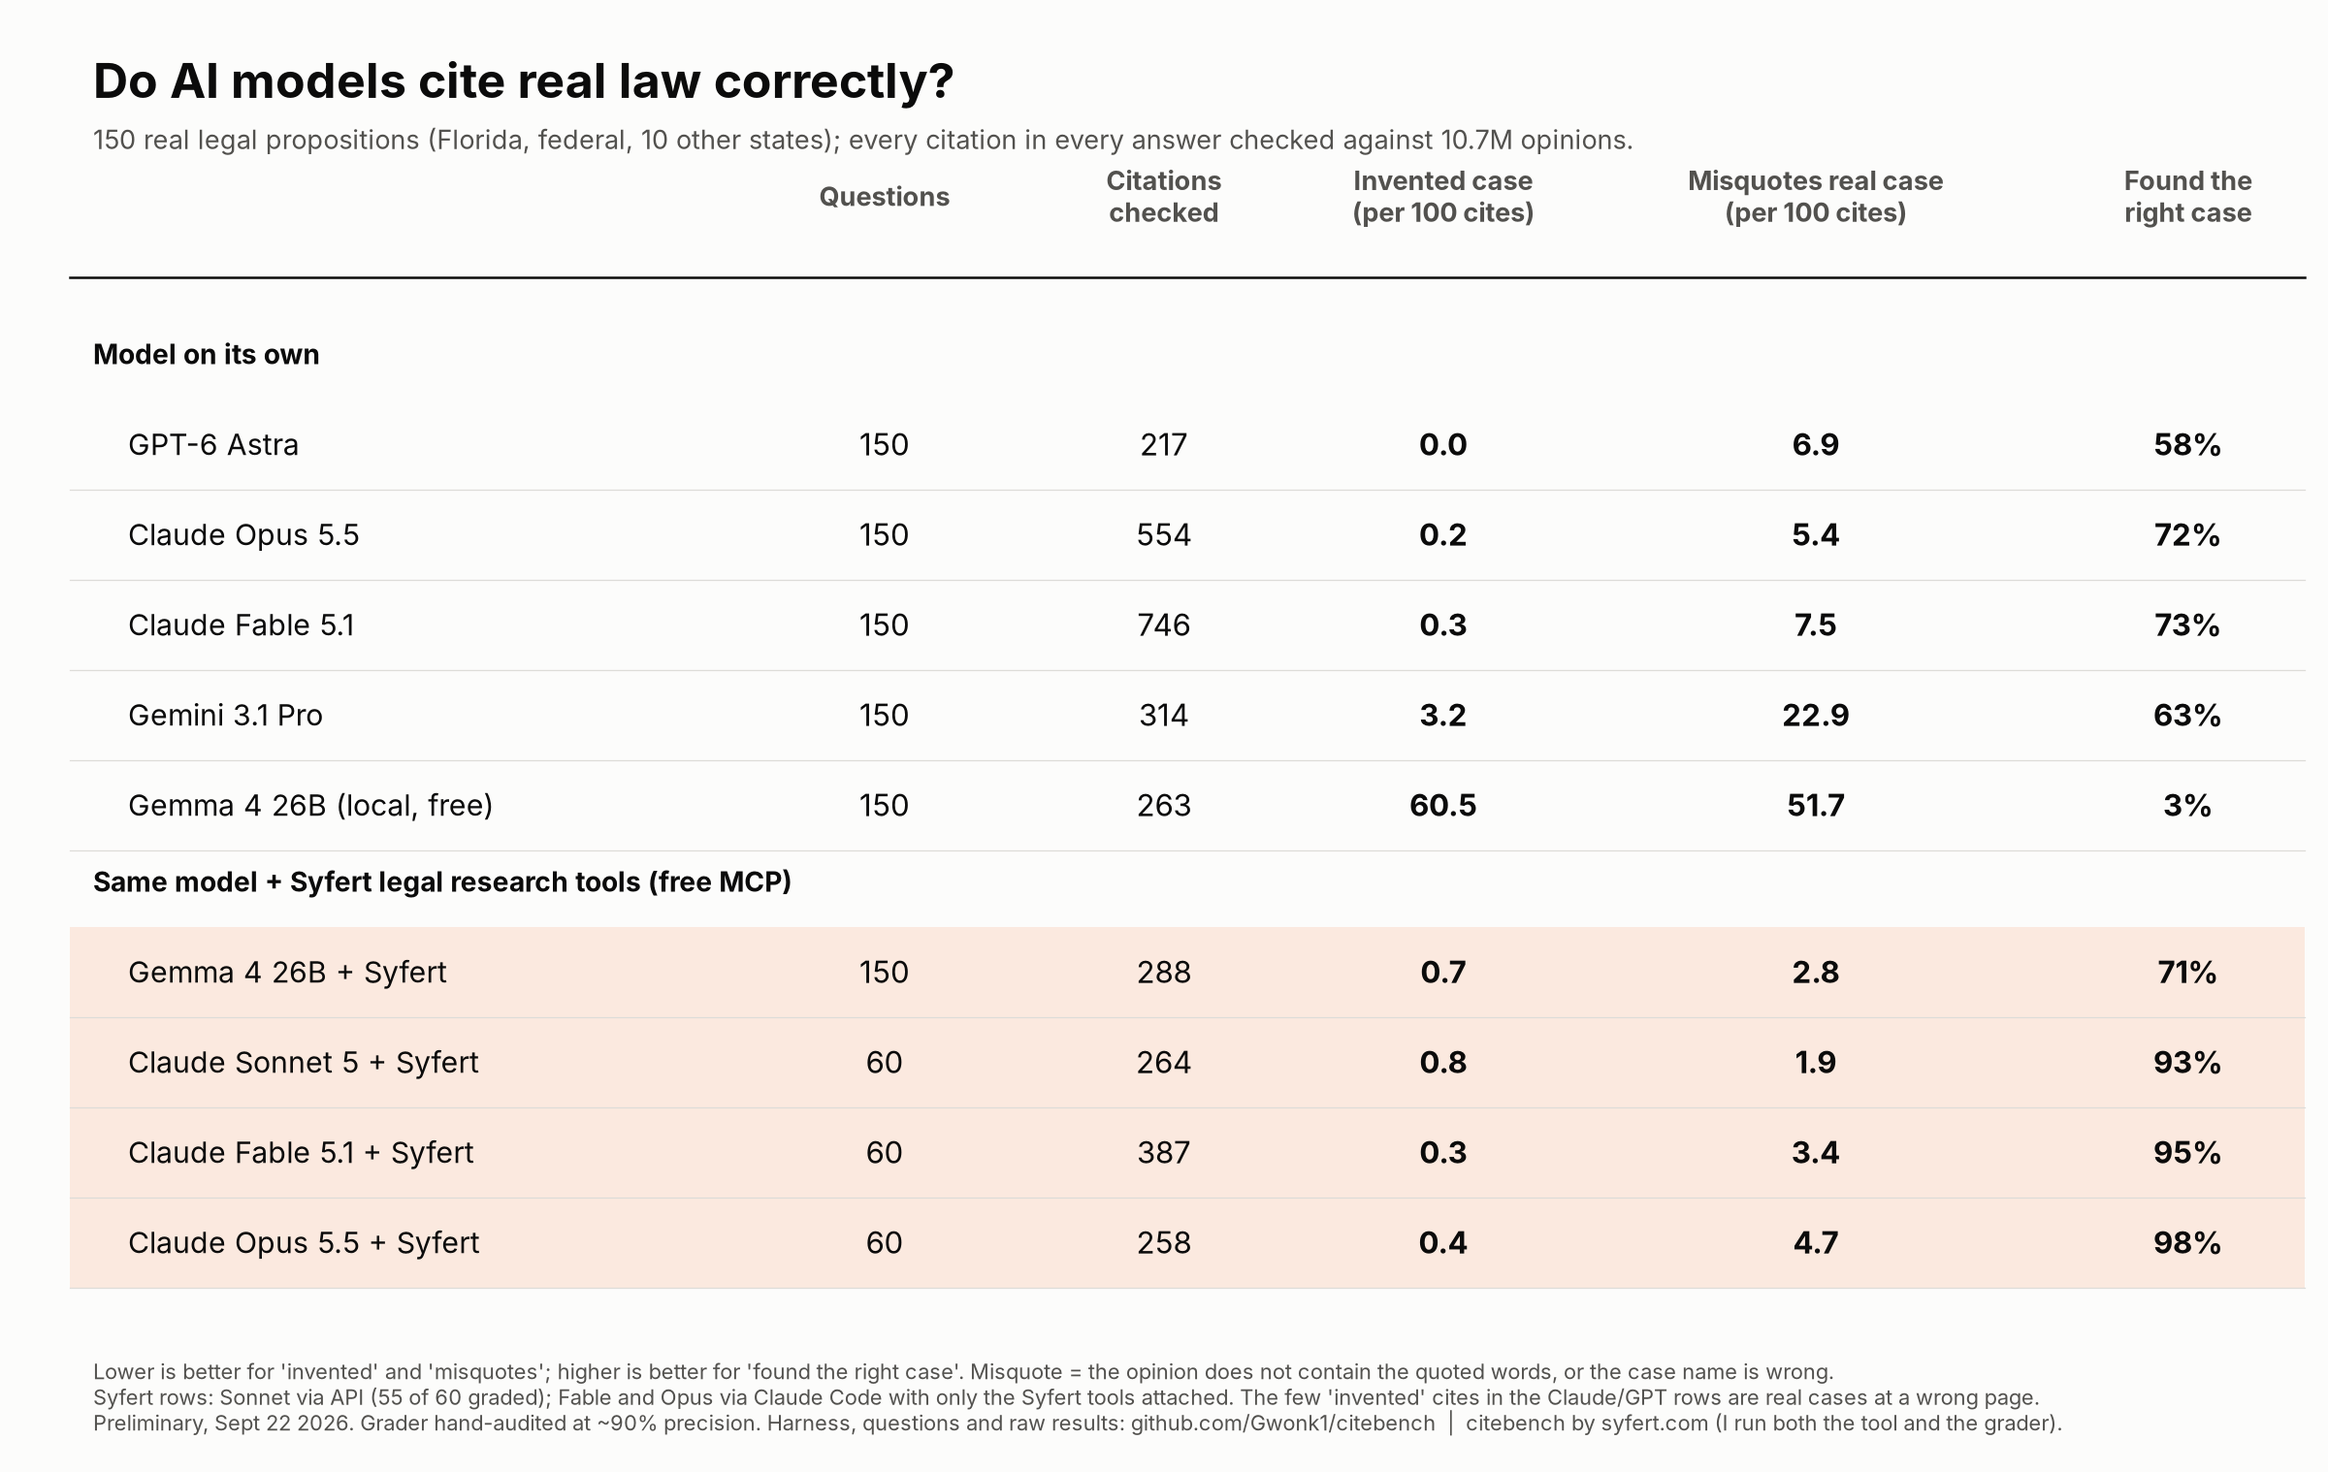
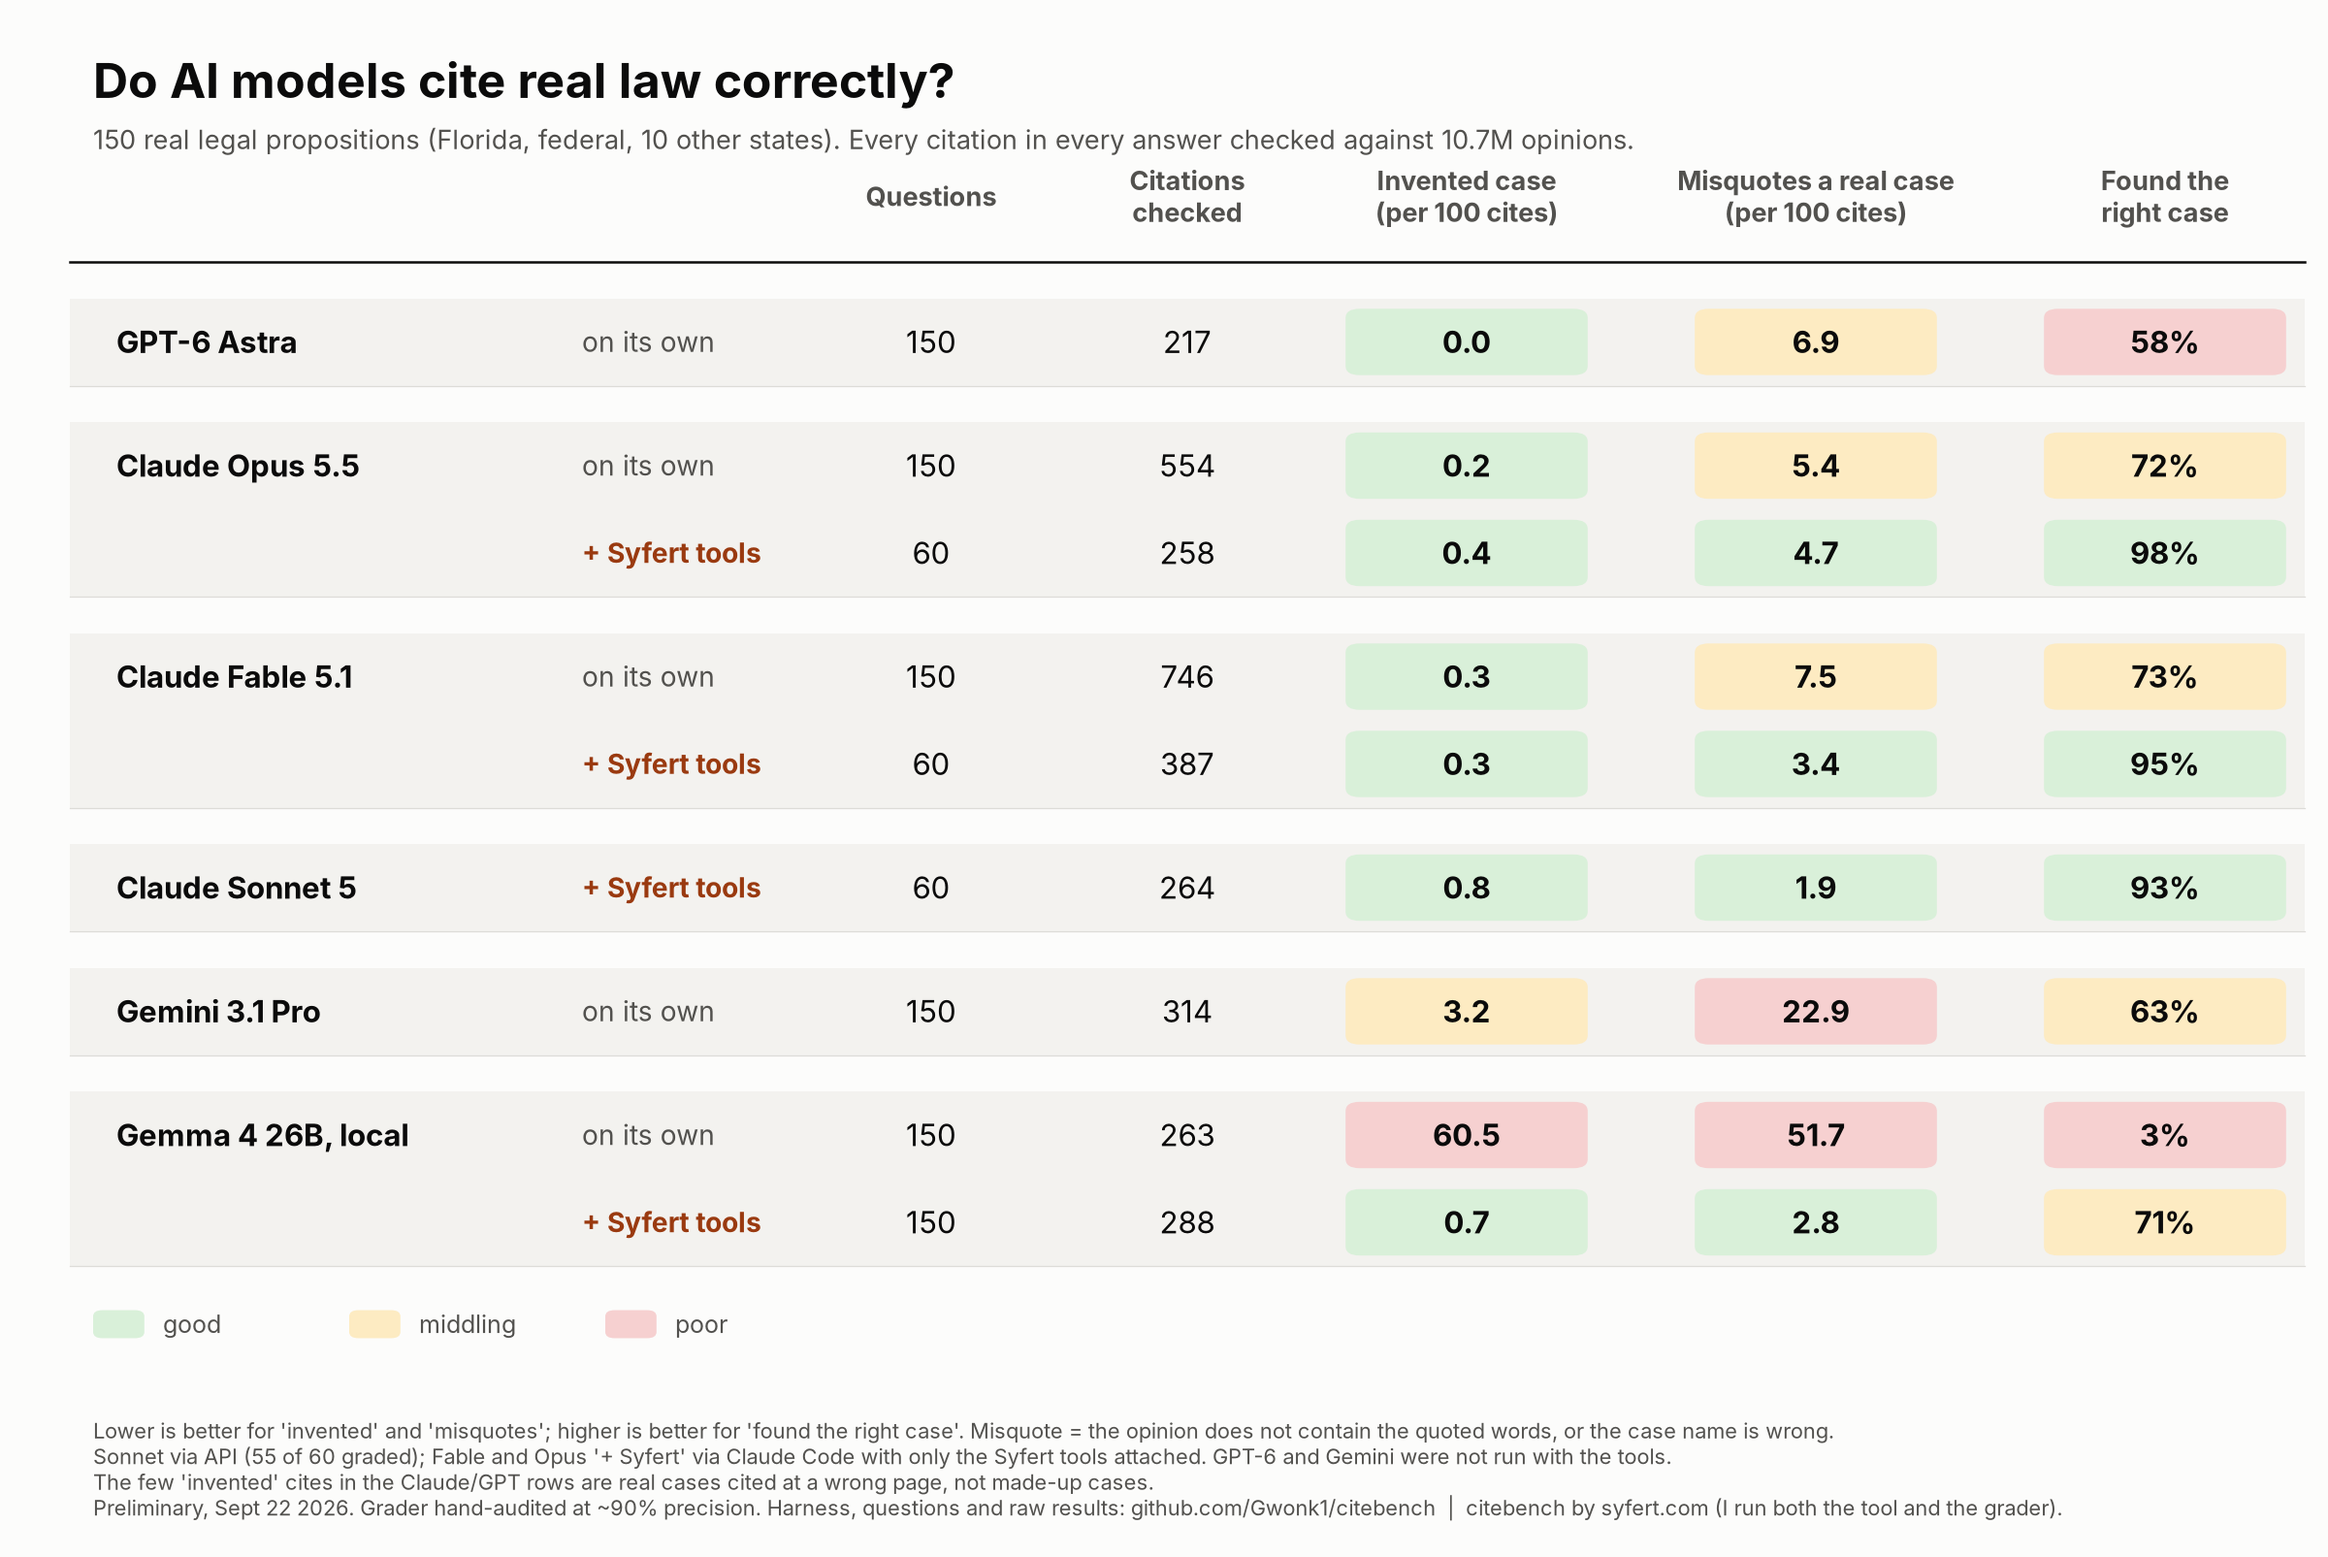
charts: paired-row colour-coded results table
Claude-Session: https://claude.ai/code/session_01Nzq7AZufucoiZGhzbSCgLB

diff --git a/publish/charts/make_reddit_table2.py b/publish/charts/make_reddit_table2.py
@@ -1,0 +1,70 @@
+#!/usr/bin/env python3
+# usage: cd ~/projects/citebench && uv run --no-project --with matplotlib python publish/charts/make_reddit_table2.py   (headline table image, paired rows per model, colour-coded cells)
+import os
+import matplotlib; matplotlib.use("Agg")
+import matplotlib.pyplot as plt
+from matplotlib.patches import Rectangle, FancyBboxPatch
+
+ROOT = os.path.dirname(os.path.dirname(os.path.dirname(os.path.abspath(__file__))))
+rows = {}
+for l in open(os.path.join(ROOT, "results", "report_150.md")):
+    if l.startswith("| ") and ":v" in l and " pp" not in l:
+        c = [x.strip() for x in l.strip().strip("|").split("|")]
+        p = lambda s: float(s.rstrip("%"))
+        rows[(c[0], c[1])] = dict(n=int(c[3]), cites=int(c[6]), fab=p(c[7]), misgr=p(c[11]), gold=p(c[14]))
+
+MODELS = [  # (display name, bare key, mcp key)
+    ("GPT-6 Astra", "gpt-6-astra", None),
+    ("Claude Opus 5.5", "claude-opus-5-5", "claude-opus-5-5-cc"),
+    ("Claude Fable 5.1", "claude-fable-5-1", "claude-fable-5-1-cc"),
+    ("Claude Sonnet 5", None, "claude-sonnet-5-or"),
+    ("Gemini 3.1 Pro", "gemini-3.1-pro-or", None),
+    ("Gemma 4 26B, local", "local-gemma", "local-gemma"),
+]
+GOOD, WARN, BAD = "#d9f0d9", "#fdebc2", "#f6d0d0"
+def tint(kind, v):
+    if kind == "fab":  return GOOD if v < 1 else WARN if v < 5 else BAD
+    if kind == "mis":  return GOOD if v < 5 else WARN if v < 15 else BAD
+    return GOOD if v >= 85 else WARN if v >= 60 else BAD
+
+SURF, INK, INK2, LINE, BAND = "#fcfcfb", "#0b0b0b", "#52514e", "#dddcd8", "#f3f2ef"
+plt.rcParams.update({"font.family": ["Inter", "DejaVu Sans"]})
+lines = [(m, ("bare" if b else None), ("mcp" if t else None)) for m, b, t in MODELS]
+nrows = sum((1 if b else 0) + (1 if t else 0) for _, b, t in MODELS)
+H = 3.8 + 0.6 * nrows + 0.25 * len(MODELS)
+fig = plt.figure(figsize=(16, H), dpi=150, facecolor=SURF); ax = fig.add_axes([0, 0, 1, 1]); ax.set_axis_off(); ax.set_xlim(0, 100); ax.set_ylim(0, 100)
+fig.text(0.04, 1 - 0.35 / H, "Do AI models cite real law correctly?", fontsize=24, fontweight="bold", color=INK, va="top")
+fig.text(0.04, 1 - 0.85 / H, "150 real legal propositions (Florida, federal, 10 other states). Every citation in every answer checked against 10.7M opinions.", fontsize=13, color=INK2, va="top")
+HEAD = ["", "Questions", "Citations\nchecked", "Invented case\n(per 100 cites)", "Misquotes a real case\n(per 100 cites)", "Found the\nright case"]
+cols = [4, 40, 51, 63, 78, 93]
+rh, gap = 100 * 0.6 / H, 100 * 0.25 / H
+y = 100 * (1 - 1.35 / H)
+for i, h in enumerate(HEAD):
+    ax.text(cols[i], y, h, ha="left" if i == 0 else "center", va="center", fontsize=13, color=INK2, fontweight="bold")
+y -= rh * 0.75; ax.plot([3, 99], [y, y], color=INK, lw=1.2)
+for name, bkey, tkey in MODELS:
+    y -= gap
+    n_lines = (1 if bkey else 0) + (1 if tkey else 0)
+    ax.add_patch(Rectangle((3, y - n_lines * rh), 96, n_lines * rh, color=BAND, lw=0, zorder=0))
+    ax.text(cols[0] + 1, y - rh * 0.5, name, ha="left", va="center", fontsize=15, fontweight="bold", color=INK, zorder=2)
+    first = True
+    for key, arm, sub in ((bkey, "bare", "on its own"), (tkey, "mcp", "+ Syfert tools")):
+        if not key: continue
+        y -= rh; r = rows[(key, arm)]
+        ax.text(cols[0] + 21, y + rh * 0.5, sub, ha="left", va="center", fontsize=13.5, color=INK2 if arm == "bare" else "#9a3a10", fontweight="normal" if arm == "bare" else "bold", zorder=2)
+        vals = [(f"{r['n']}", None), (f"{r['cites']}", None), (f"{r['fab']:.1f}", tint("fab", r["fab"])), (f"{r['misgr']:.1f}", tint("mis", r["misgr"])), (f"{r['gold']:.0f}%", tint("gold", r["gold"]))]
+        for i, (v, bg) in enumerate(vals, start=1):
+            if bg: ax.add_patch(FancyBboxPatch((cols[i] - 5.2, y + rh * 0.12), 10.4, rh * 0.76, boxstyle="round,pad=0,rounding_size=0.6", color=bg, lw=0, zorder=1))
+            ax.text(cols[i], y + rh * 0.5, v, ha="center", va="center", fontsize=15, color=INK, fontweight="bold" if bg else "normal", zorder=2)
+        first = False
+    ax.plot([3, 99], [y, y], color=LINE, lw=0.6, zorder=1)
+# legend for colours
+ly = y - gap * 1.6
+for i, (c, t) in enumerate(((GOOD, "good"), (WARN, "middling"), (BAD, "poor"))):
+    ax.add_patch(FancyBboxPatch((4 + i * 11, ly - 0.9), 2.2, 1.8, boxstyle="round,pad=0,rounding_size=0.4", color=c, lw=0)); ax.text(7 + i * 11, ly, t, va="center", fontsize=12, color=INK2)
+fig.text(0.04, 0.25 / H, "Lower is better for 'invented' and 'misquotes'; higher is better for 'found the right case'. Misquote = the opinion does not contain the quoted words, or the case name is wrong.\n"
+         "Sonnet via API (55 of 60 graded); Fable and Opus '+ Syfert' via Claude Code with only the Syfert tools attached. GPT-6 and Gemini were not run with the tools.\n"
+         "The few 'invented' cites in the Claude/GPT rows are real cases cited at a wrong page, not made-up cases.\n"
+         "Preliminary, Sept 22 2026. Grader hand-audited at ~90% precision. Harness, questions and raw results: github.com/Gwonk1/citebench  |  citebench by syfert.com (I run both the tool and the grader).",
+         fontsize=10.5, color=INK2, va="bottom")
+out = os.path.join(ROOT, "publish", "charts", "reddit_table.png"); fig.savefig(out, facecolor=SURF); print("wrote", out)
